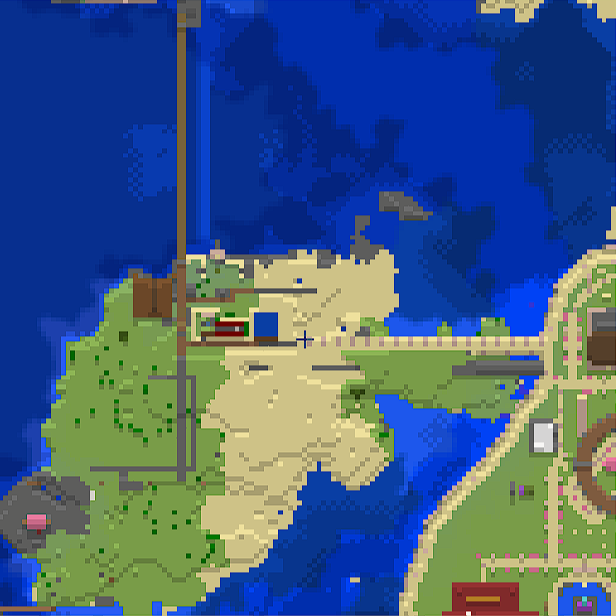
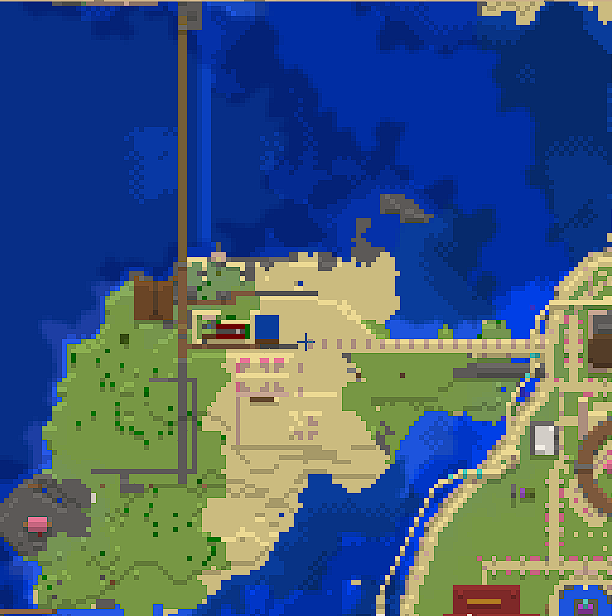
update map

Changed region(s): [[0.0, 0.0, 1.0, 1.0], [0.4657, 0.0925, 0.4967, 0.1234]]

diff --git a/index.html b/index.html
@@ -140,6 +140,8 @@
       .bindPopup('<h2>しなり城</h2><p>座標: 611 68 604<br>制作者: しなり</p><img style="width: 300px;" src="images/shinari_castle.png">');
     var marker27 = L.marker([1750, 100]).addTo(map)
       .bindPopup('<h2>北島・コマンドアイランド</h2><p>座標: 996 82 38</p><img style="width: 300px;" src="images/kita_island.png">');
+    var marker27 = L.marker([170, 240]).addTo(map)
+      .bindPopup('<h2>アパート ポテトライフ</h2><p>座標: 1084 72 847<br>制作者: 塩ポテト君<br>居住者: 塩ポテト君</p><img style="width: 300px;" src="images/potatolife.png">');
 
 
     // 線路用のレイヤーグループを作る
@@ -231,6 +233,16 @@
       className: 'railway-label' // CSSでデザインもできるよ
     }).openTooltip();
 
+    var polyline8 = L.polyline([
+      [530, 845],
+      [872, 845] 
+    ], { color: '#0000ff', className: "railway-line" }).addTo(railwayLayer);
+    polyline8.bindTooltip('整地師線', {
+      permanent: true,     // 常に表示する
+      direction: 'center', // 線の中心に表示
+      className: 'railway-label' // CSSでデザインもできるよ
+    }).openTooltip();
+
     var point1 = [170, 473];
     var myIcon1 = L.divIcon({ className: 'icon1', iconAnchor: [13, 13] });
     L.marker(point1, { icon: myIcon1 }).addTo(railwayLayer)
@@ -243,6 +255,8 @@
       .setContent('マセイモ駅')
       .setLatLng(point1)
       .addTo(railwayLayer);
+      
+      
 
     var point2 = [80, -550];
     var myIcon2 = L.divIcon({ className: 'icon2', iconAnchor: [13, 13] });
@@ -316,8 +330,20 @@
       className: 'station-label',
       offset: [10, 0]
     })
-      .setContent('デンチョス-ポテト線切り替え')
+      .setContent('切り替え')
       .setLatLng(point5_2)
+      .addTo(railwayLayer);
+
+      var point5_4 = [530, 845];
+    L.marker(point5_4, { icon: myIcon5 }).addTo(railwayLayer)
+    L.tooltip({
+      permanent: true,
+      direction: 'right', // 右側に表示
+      className: 'station-label',
+      offset: [10, 0]
+    })
+      .setContent('切り替え')
+      .setLatLng(point5_4)
       .addTo(railwayLayer);
 
     var point5_3 = [370, 1141];
@@ -330,6 +356,19 @@
     })
       .setContent('デンチョス城駅')
       .setLatLng(point5_3)
+      .addTo(railwayLayer);
+
+      var point6 = [872, 845] ;
+      var myIcon6 = L.divIcon({ className: 'icon6', iconAnchor: [13, 13] });
+      L.marker(point6, { icon: myIcon6 }).addTo(railwayLayer)
+    L.tooltip({
+      permanent: true,
+      direction: 'right', // 右側に表示
+      className: 'station-label',
+      offset: [10, 0]
+    })
+      .setContent('仮設整地師ビル前駅')
+      .setLatLng(point6)
       .addTo(railwayLayer);
 
     railwayLayer.addTo(map)
@@ -384,6 +423,15 @@
       border: 3px solid #fdfdfd;
       box-shadow: 1px 1px 4px rgba(0, 0, 0, 0.8);
       background-color: rgb(255, 255, 0);
+    }
+
+    .icon6 {
+      width: 20px !important;
+      height: 20px !important;
+      border-radius: 10px;
+      border: 3px solid #fdfdfd;
+      box-shadow: 1px 1px 4px rgba(0, 0, 0, 0.8);
+      background-color: rgb(0, 0, 255);
     }
   </style>
 
